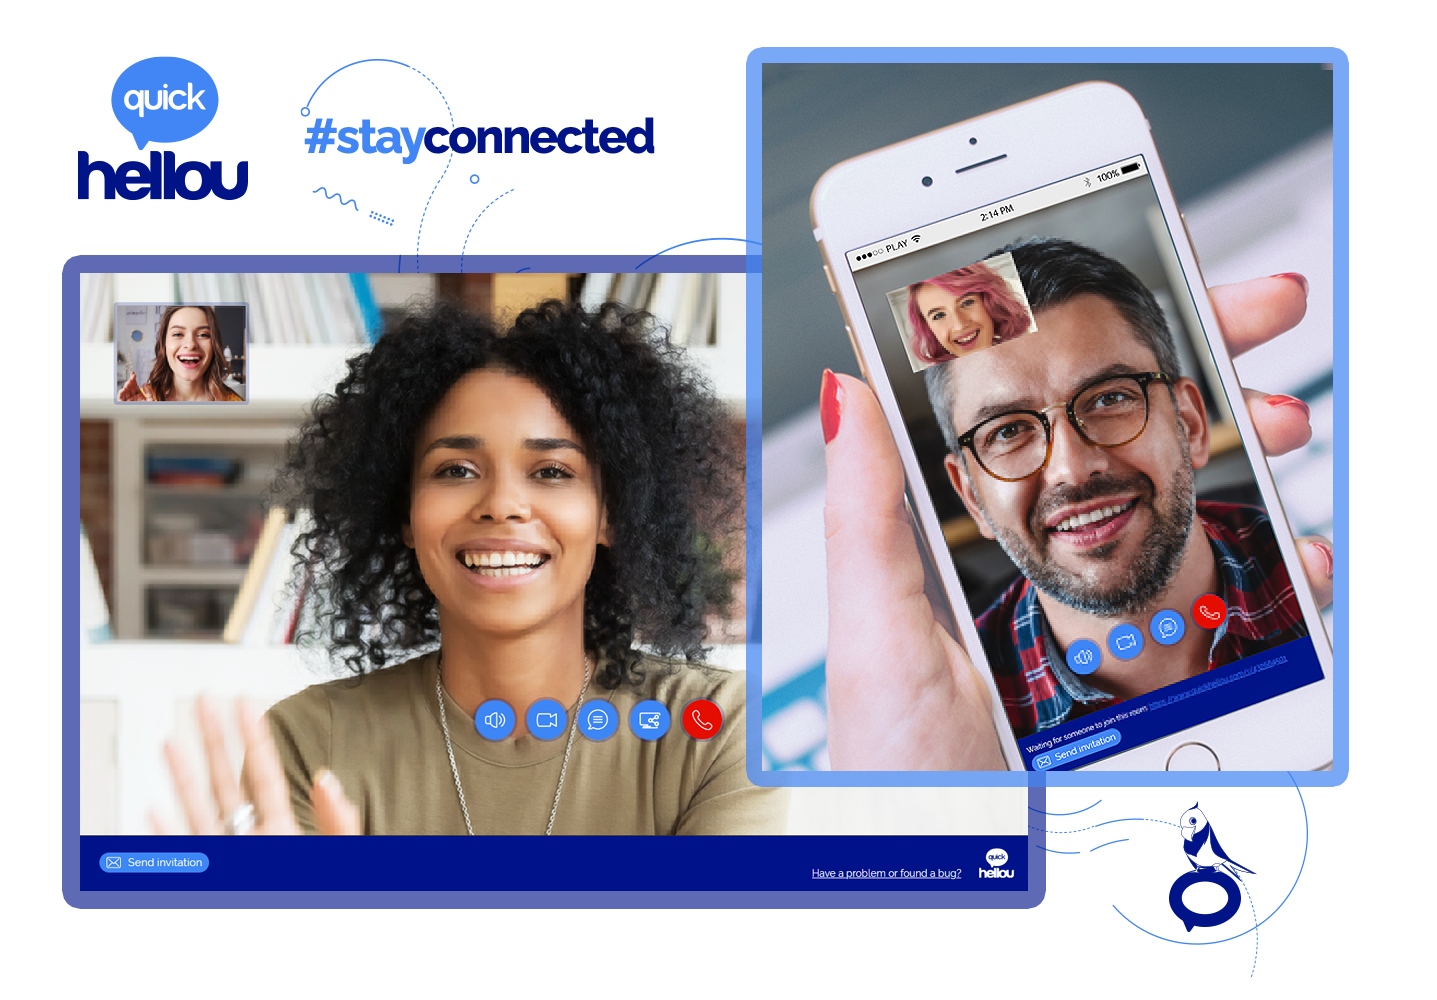
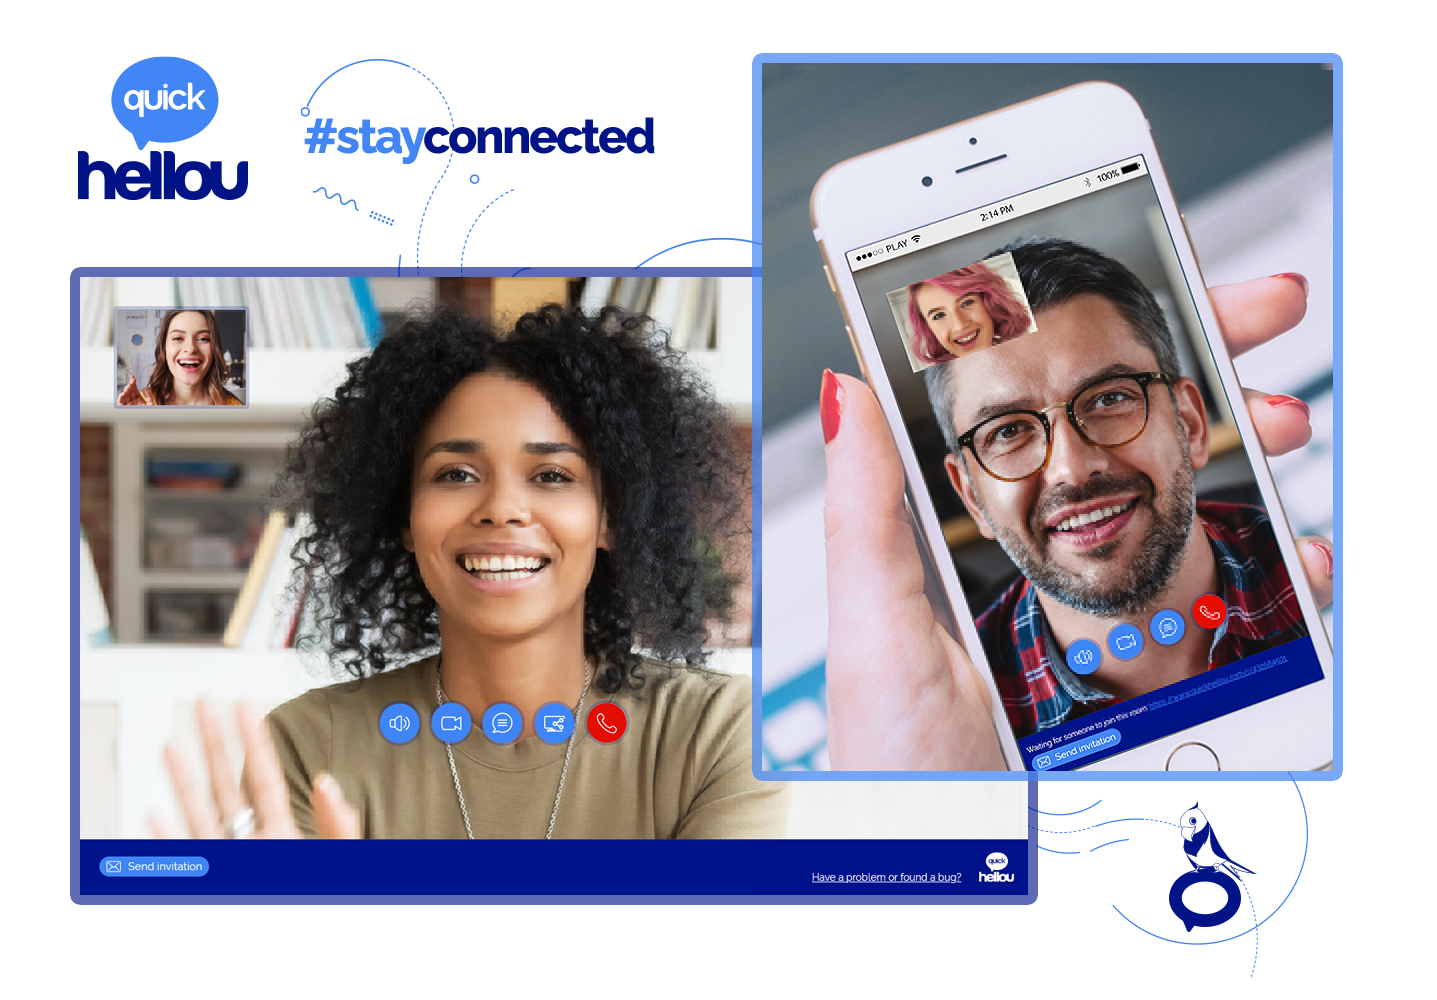
social assets update

diff --git a/README.md b/README.md
@@ -32,6 +32,10 @@ The application includes:
 * creating multi-peer video conference sessions
 * create instalable in-page plugins and create customer service communications.
 
+<div align="center">
+  <img src="https://github.com/GenBInc/quickhellou/blob/main/social_assets/qh-screens-2.png" alt="Quick Hellou Stay Connected"/>
+</div>
+
 [Demo qhellou.com](http://qhellou.com)
  
 
